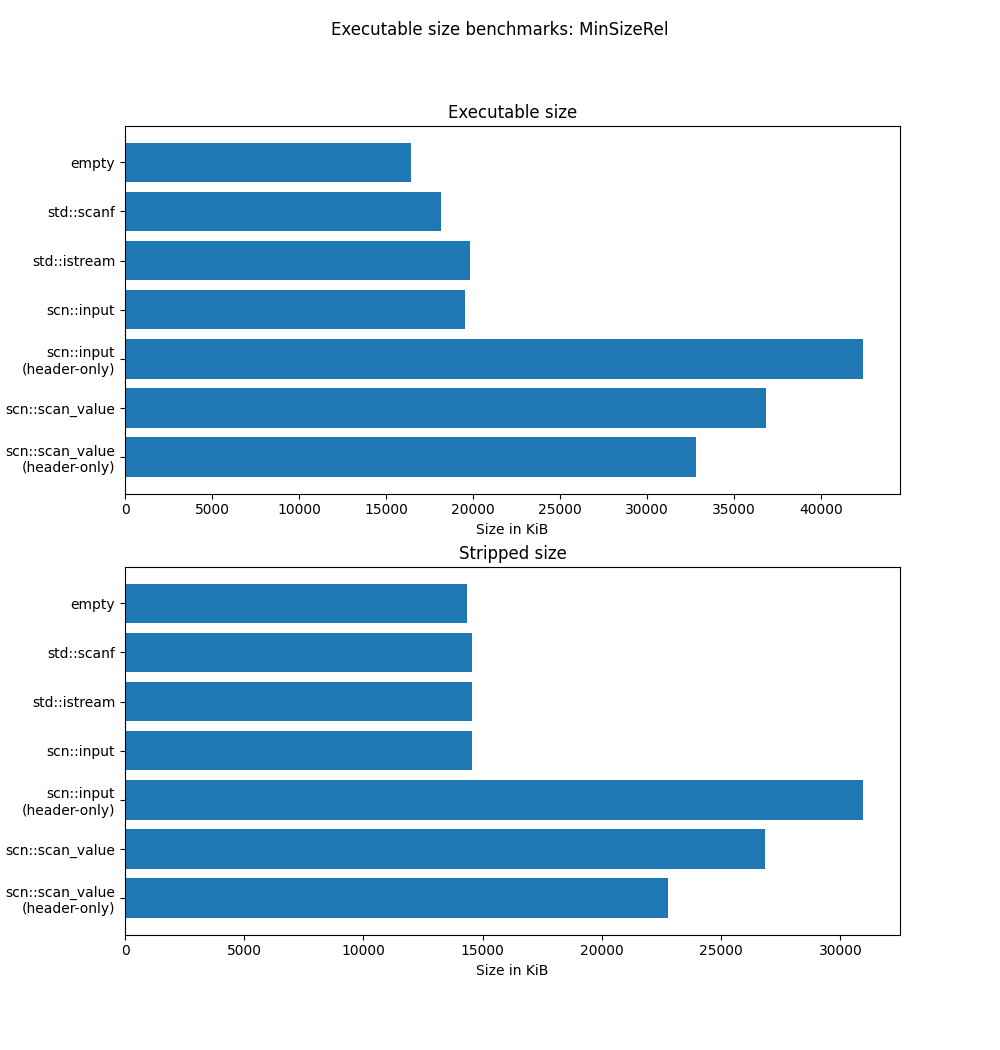
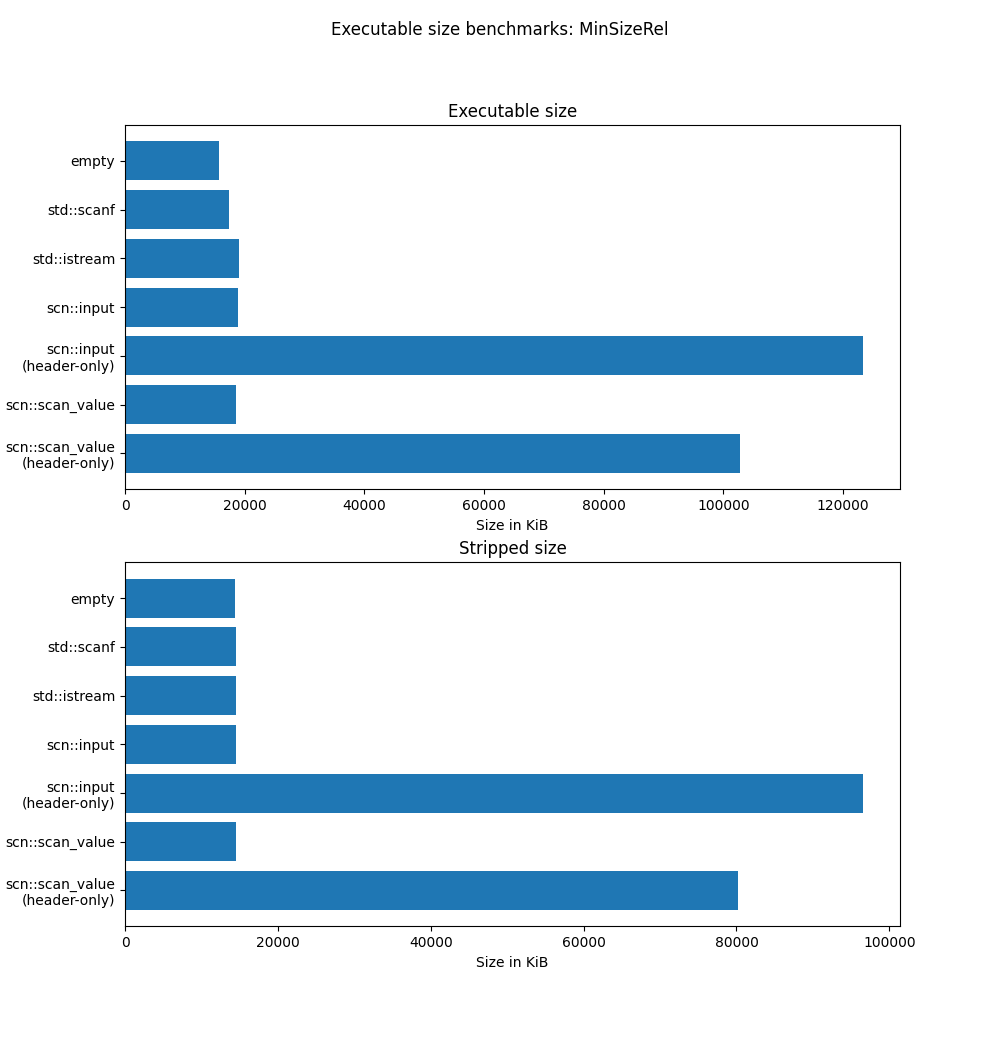
Code size optimizations Update bloat benchmark results

diff --git a/include/scn/reader/int.h b/include/scn/reader/int.h
@@ -382,45 +382,6 @@ namespace scn {
                 T& val,
                 bool minus_sign,
                 span<const CharT> buf) const;
-
-            SCN_NODISCARD unsigned char _char_to_int(char ch) const
-            {
-                static constexpr unsigned char digits_arr[] = {
-                    255, 255, 255, 255, 255, 255, 255, 255, 255, 255, 255, 255,
-                    255, 255, 255, 255, 255, 255, 255, 255, 255, 255, 255, 255,
-                    255, 255, 255, 255, 255, 255, 255, 255, 255, 255, 255, 255,
-                    255, 255, 255, 255, 255, 255, 255, 255, 255, 255, 255, 255,
-                    0,   1,   2,   3,   4,   5,   6,   7,   8,   9,   255, 255,
-                    255, 255, 255, 255, 255, 10,  11,  12,  13,  14,  15,  16,
-                    17,  18,  19,  20,  21,  22,  23,  24,  25,  26,  27,  28,
-                    29,  30,  31,  32,  33,  34,  35,  255, 255, 255, 255, 255,
-                    255, 10,  11,  12,  13,  14,  15,  16,  17,  18,  19,  20,
-                    21,  22,  23,  24,  25,  26,  27,  28,  29,  30,  31,  32,
-                    33,  34,  35,  255, 255, 255, 255, 255, 255, 255, 255, 255,
-                    255, 255, 255, 255, 255, 255, 255, 255, 255, 255, 255, 255,
-                    255, 255, 255, 255, 255, 255, 255, 255, 255, 255, 255, 255,
-                    255, 255, 255, 255, 255, 255, 255, 255, 255, 255, 255, 255,
-                    255, 255, 255, 255, 255, 255, 255, 255, 255, 255, 255, 255,
-                    255, 255, 255, 255, 255, 255, 255, 255, 255, 255, 255, 255,
-                    255, 255, 255, 255, 255, 255, 255, 255, 255, 255, 255, 255,
-                    255, 255, 255, 255, 255, 255, 255, 255, 255, 255, 255, 255,
-                    255, 255, 255, 255, 255, 255, 255, 255, 255, 255, 255, 255,
-                    255, 255, 255, 255, 255, 255, 255, 255, 255, 255, 255, 255,
-                    255, 255, 255, 255, 255, 255, 255, 255, 255, 255, 255, 255,
-                    255, 255, 255, 255};
-                return digits_arr[static_cast<unsigned char>(ch)];
-            }
-            SCN_NODISCARD unsigned char _char_to_int(wchar_t ch) const
-            {
-                SCN_GCC_PUSH
-                SCN_GCC_IGNORE("-Wconversion")
-                if (ch >= std::numeric_limits<char>::min() &&
-                    ch <= std::numeric_limits<char>::max()) {
-                    return _char_to_int(static_cast<char>(ch));
-                }
-                return 255;
-                SCN_GCC_POP
-            }
         };
 
         // instantiate

diff --git a/src/reader_int.cpp b/src/reader_int.cpp
@@ -26,6 +26,43 @@ namespace scn {
     SCN_BEGIN_NAMESPACE
 
     namespace detail {
+        SCN_NODISCARD static unsigned char _char_to_int(char ch)
+        {
+            static constexpr unsigned char digits_arr[] = {
+                255, 255, 255, 255, 255, 255, 255, 255, 255, 255, 255, 255, 255,
+                255, 255, 255, 255, 255, 255, 255, 255, 255, 255, 255, 255, 255,
+                255, 255, 255, 255, 255, 255, 255, 255, 255, 255, 255, 255, 255,
+                255, 255, 255, 255, 255, 255, 255, 255, 255, 0,   1,   2,   3,
+                4,   5,   6,   7,   8,   9,   255, 255, 255, 255, 255, 255, 255,
+                10,  11,  12,  13,  14,  15,  16,  17,  18,  19,  20,  21,  22,
+                23,  24,  25,  26,  27,  28,  29,  30,  31,  32,  33,  34,  35,
+                255, 255, 255, 255, 255, 255, 10,  11,  12,  13,  14,  15,  16,
+                17,  18,  19,  20,  21,  22,  23,  24,  25,  26,  27,  28,  29,
+                30,  31,  32,  33,  34,  35,  255, 255, 255, 255, 255, 255, 255,
+                255, 255, 255, 255, 255, 255, 255, 255, 255, 255, 255, 255, 255,
+                255, 255, 255, 255, 255, 255, 255, 255, 255, 255, 255, 255, 255,
+                255, 255, 255, 255, 255, 255, 255, 255, 255, 255, 255, 255, 255,
+                255, 255, 255, 255, 255, 255, 255, 255, 255, 255, 255, 255, 255,
+                255, 255, 255, 255, 255, 255, 255, 255, 255, 255, 255, 255, 255,
+                255, 255, 255, 255, 255, 255, 255, 255, 255, 255, 255, 255, 255,
+                255, 255, 255, 255, 255, 255, 255, 255, 255, 255, 255, 255, 255,
+                255, 255, 255, 255, 255, 255, 255, 255, 255, 255, 255, 255, 255,
+                255, 255, 255, 255, 255, 255, 255, 255, 255, 255, 255, 255, 255,
+                255, 255, 255, 255, 255, 255, 255, 255, 255};
+            return digits_arr[static_cast<unsigned char>(ch)];
+        }
+        SCN_NODISCARD static unsigned char _char_to_int(wchar_t ch)
+        {
+            SCN_GCC_PUSH
+            SCN_GCC_IGNORE("-Wconversion")
+            if (ch >= std::numeric_limits<char>::min() &&
+                ch <= std::numeric_limits<char>::max()) {
+                return _char_to_int(static_cast<char>(ch));
+            }
+            return 255;
+            SCN_GCC_POP
+        }
+
         template <typename T>
         template <typename CharT>
         expected<typename span<const CharT>::iterator>

diff --git a/include/scn/scan/scan.h b/include/scn/scan/scan.h
@@ -29,9 +29,8 @@ namespace scn {
     }
 
     /**
-     * \tparam OriginalRange The type of the range passed to the scanning function
-     * \param result Return value of `vscan`
-     * \return Result object
+     * \tparam OriginalRange The type of the range passed to the scanning
+     * function \param result Return value of `vscan` \return Result object
      *
      * \code{.cpp}
      * template <typename Range, typename... Args>
@@ -248,18 +247,15 @@ namespace scn {
         T value;
         auto range = wrap(SCN_FWD(r));
         auto args = make_args_for(range, 1, value);
-        auto ctx = make_context(SCN_MOVE(range));
-        auto pctx = make_parse_context(1, ctx.locale());
-
-        auto err = visit(ctx, pctx, {args});
-        if (!err) {
-            return detail::wrap_result(expected<T>{err},
+        auto ret = vscan_default(SCN_MOVE(range), 1, {args});
+        if (ret.err) {
+            return detail::wrap_result(expected<T>{value},
                                        detail::range_tag<Range>{},
-                                       SCN_MOVE(ctx.range()));
+                                       SCN_MOVE(ret.range));
         }
-        return detail::wrap_result(expected<T>{value},
+        return detail::wrap_result(expected<T>{ret.err},
                                    detail::range_tag<Range>{},
-                                   SCN_MOVE(ctx.range()));
+                                   SCN_MOVE(ret.range));
     }
 #endif
 

diff --git a/README.md b/README.md
@@ -265,7 +265,7 @@ It generates 25 translation units and reads values from stdin five times to simu
 The resulting executable size is shown in the following tables and graphs.
 The "stripped size" metric shows the size of the executable after running `strip`.
 
-The code was compiled on Ubuntu 20.04 with g++ 9.3.0.
+The code was compiled on Ubuntu 21.10 with g++ 11.2.0.
 `scnlib` is linked dynamically to level out the playing field compared to already dynamically linked `libc` and `libstdc++`.
 See the directory `benchmark/bloat` for more information, e.g. templates for each TU.
 
@@ -274,11 +274,11 @@ To run these tests yourself:
 ```sh
 $ cd build
 # For Debug
-$ cmake -DCMAKE_BUILD_TYPE=Debug -DSCN_BUILD_BLOAT=ON -DSCN_BUILD_BUILDTIME=OFF -DSCN_TESTS=OFF -DBUILD_SHARED_LIBS=ON -DSCN_INSTALL=OFF ..
+$ cmake -DCMAKE_BUILD_TYPE=Debug -DSCN_BUILD_BLOAT=ON -DSCN_BUILD_BUILDTIME=OFF -DSCN_TESTS=OFF -DSCN_EXAMPLES=OFF -DBUILD_SHARED_LIBS=ON -DSCN_INSTALL=OFF ..
 # For Release
-$ cmake -DCMAKE_BUILD_TYPE=Release -DCMAKE_INTERPROCEDURAL_OPTIMIZATION=ON -DSCN_BUILD_BLOAT=ON -DSCN_BUILD_BUILDTIME=OFF -DSCN_TESTS=OFF DBUILD_SHARED_LIBS=ON -DSCN_INSTALL=OFF ..
+$ cmake -DCMAKE_BUILD_TYPE=Release -DCMAKE_INTERPROCEDURAL_OPTIMIZATION=ON -DSCN_BUILD_BLOAT=ON -DSCN_BUILD_BUILDTIME=OFF -DSCN_TESTS=OFF -DSCN_EXAMPLES=OFF -DBUILD_SHARED_LIBS=ON -DSCN_INSTALL=OFF ..
 # For Minimized Release
-$ cmake -DCMAKE_BUILD_TYPE=MinSizeRel -DCMAKE_INTERPROCEDURAL_OPTIMIZATION=ON -DSCN_BUILD_BLOAT=ON -DSCN_BUILD_BUILDTIME=OFF -DSCN_TESTS=OFF DBUILD_SHARED_LIBS=ON -DSCN_INSTALL=OFF ..
+$ cmake -DCMAKE_BUILD_TYPE=MinSizeRel -DCMAKE_INTERPROCEDURAL_OPTIMIZATION=ON -DSCN_BUILD_BLOAT=ON -DSCN_BUILD_BUILDTIME=OFF -DSCN_TESTS=OFF -DSCN_EXAMPLES=OFF -DBUILD_SHARED_LIBS=ON -DSCN_INSTALL=OFF ..
 
 $ make -j
 $ ./benchmark/bloat/run-bloat-tests.py ./benchmark/bloat
@@ -291,13 +291,13 @@ Lower is better.
 
 | Method                          | Executable size | Stripped size |
 | :------------------------------ | --------------: | ------------: |
-| empty                           |            16.0 |          14.0 |
-| `std::scanf`                    |            17.8 |          14.2 |
-| `std::istream`                  |            19.4 |          14.2 |
-| `scn::input`                    |            19.1 |          14.2 |
-| `scn::input` (header-only)      |            41.4 |          30.2 |
-| `scn::scan_value`               |            35.9 |          26.2 |
-| `scn::scan_value` (header-only) |            32.0 |          22.2 |
+| empty                           |            15.4 |          14.0 |
+| `std::scanf`                    |            17.0 |          14.2 |
+| `std::istream`                  |            18.6 |          14.2 |
+| `scn::input`                    |            18.4 |          14.2 |
+| `scn::input` (header-only)      |             120 |          94.3 |
+| `scn::scan_value`               |            18.1 |          14.2 |
+| `scn::scan_value` (header-only) |             100 |          78.3 |
 
 ![Benchmark results](benchmark/bloat/results_minsizerel.png?raw=true "Benchmark results")
 
@@ -305,13 +305,13 @@ Lower is better.
 
 | Method                          | Executable size | Stripped size |
 | :------------------------------ | --------------: | ------------: |
-| empty                           |            16.0 |          14.0 |
-| `std::scanf`                    |            17.7 |          14.2 |
-| `std::istream`                  |            19.4 |          14.2 |
-| `scn::input`                    |            19.1 |          14.2 |
-| `scn::input` (header-only)      |            53.8 |          42.2 |
-| `scn::scan_value`               |            39.3 |          30.2 |
-| `scn::scan_value` (header-only) |            43.8 |          34.2 |
+| empty                           |            15.4 |          14.0 |
+| `std::scanf`                    |            17.0 |          14.2 |
+| `std::istream`                  |            18.6 |          14.2 |
+| `scn::input`                    |            18.2 |          14.2 |
+| `scn::input` (header-only)      |             161 |           138 |
+| `scn::scan_value`               |            18.6 |          14.2 |
+| `scn::scan_value` (header-only) |             124 |           106 |
 
 ![Benchmark results](benchmark/bloat/results_release.png?raw=true "Benchmark results")
 
@@ -319,13 +319,13 @@ Lower is better.
 
 | Method                          | Executable size | Stripped size |
 | :------------------------------ | --------------: | ------------: |
-| empty                           |            35.9 |          14.0 |
-| `std::scanf`                    |             614 |          18.2 |
-| `std::istream`                  |             688 |          26.2 |
-| `scn::input`                    |            1425 |          42.3 |
-| `scn::input` (header-only)      |            4703 |           202 |
-| `scn::scan_value`               |            3622 |           134 |
-| `scn::scan_value` (header-only) |            4778 |           186 |
+| empty                           |            27.5 |          14.0 |
+| `std::scanf`                    |             605 |          22.2 |
+| `std::istream`                  |             651 |          26.2 |
+| `scn::input`                    |            1633 |          94.3 |
+| `scn::input` (header-only)      |           10533 |          1010 |
+| `scn::scan_value`               |            1765 |          90.3 |
+| `scn::scan_value` (header-only) |            9289 |           698 |
 
 ![Benchmark results](benchmark/bloat/results_debug.png?raw=true "Benchmark results")
 
